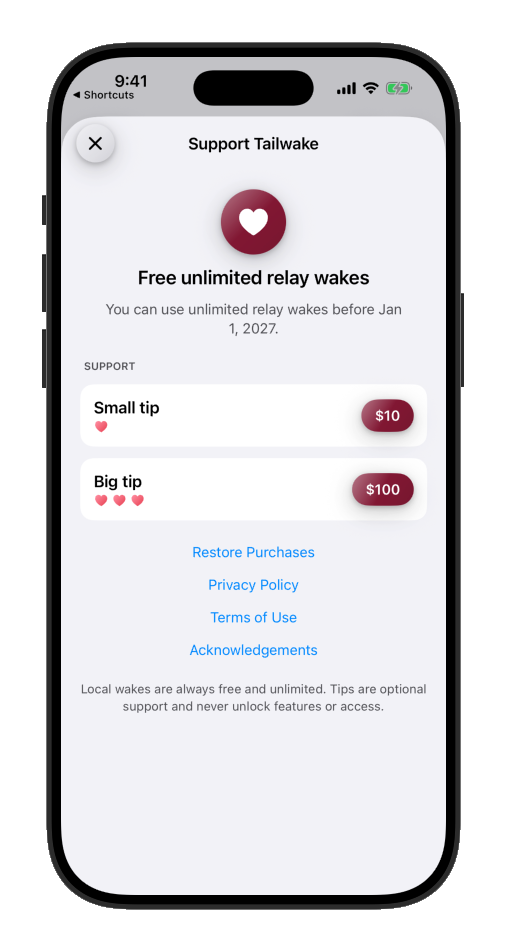
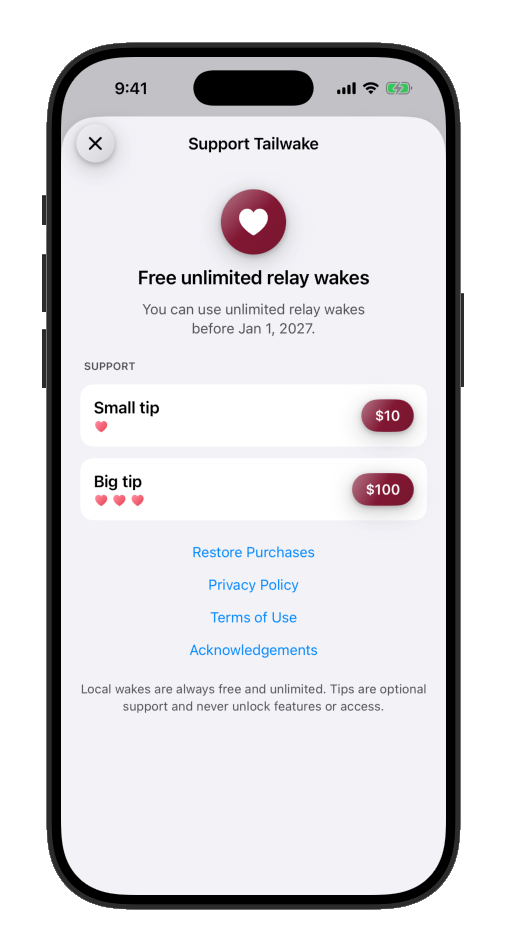
docs: explain planned 2027 relay pricing

Changed region(s): [[0.2075, 0.3046, 0.8004, 0.3655], [0.1482, 0.0609, 0.2964, 0.1218]]

diff --git a/SUPPORT.md b/SUPPORT.md
@@ -5,20 +5,27 @@
 Tailwake is designed to remain useful without a subscription. If Tailwake is helpful, the app also offers ways to support its development.
 
 <p align="center">
-  <img src="images/example-support.png" alt="Tailwake Support screen with optional tips and purchase restoration." width="320">
+  <img src="images/example-support.png" alt="Tailwake Support screen showing free unlimited relay wakes before January 1, 2027, with optional tips." width="320">
 </p>
 
-## Relay-wake allowance
+## Through December 31, 2026
 
-Tailwake includes seven free relay wakes per calendar month, resetting on the first. Local wakes remain free and unlimited.
+Relay wakes are free and unlimited during the beta period through December 31, 2026. Local wakes are always free and unlimited.
 
-## Unlimited relay-wake options
+## Planned from January 1, 2027
 
+The free-unlimited beta period is scheduled to end. The current plan is:
+
+- **Seven free relay wakes** per calendar month, resetting on the first.
 - **Monthly subscription** — Unlimited relay wakes while the subscription is active; renews monthly.
 - **Yearly subscription** — Unlimited relay wakes while the subscription is active; renews yearly.
 - **Lifetime unlock** — Unlimited relay wakes forever.
 
-Prices and availability appear in the app and may vary by App Store storefront. Monthly and yearly subscriptions renew automatically unless cancelled at least 24 hours before the current period ends; they share one subscription group, so changing plans replaces the current plan.
+<p align="center">
+  <img src="images/example-support-post-beta.png" alt="Tailwake Support screen showing the planned 2027 relay-wake allowance and purchase options." width="320">
+</p>
+
+The screenshot shows the currently planned USD prices: $2 monthly, $19 yearly, and $97 lifetime. Prices, availability, and the planned January 2027 change may vary by App Store storefront or change before they take effect. Monthly and yearly subscriptions renew automatically unless cancelled at least 24 hours before the current period ends; they share one subscription group, so changing plans replaces the current plan.
 
 ## Optional tips
 
